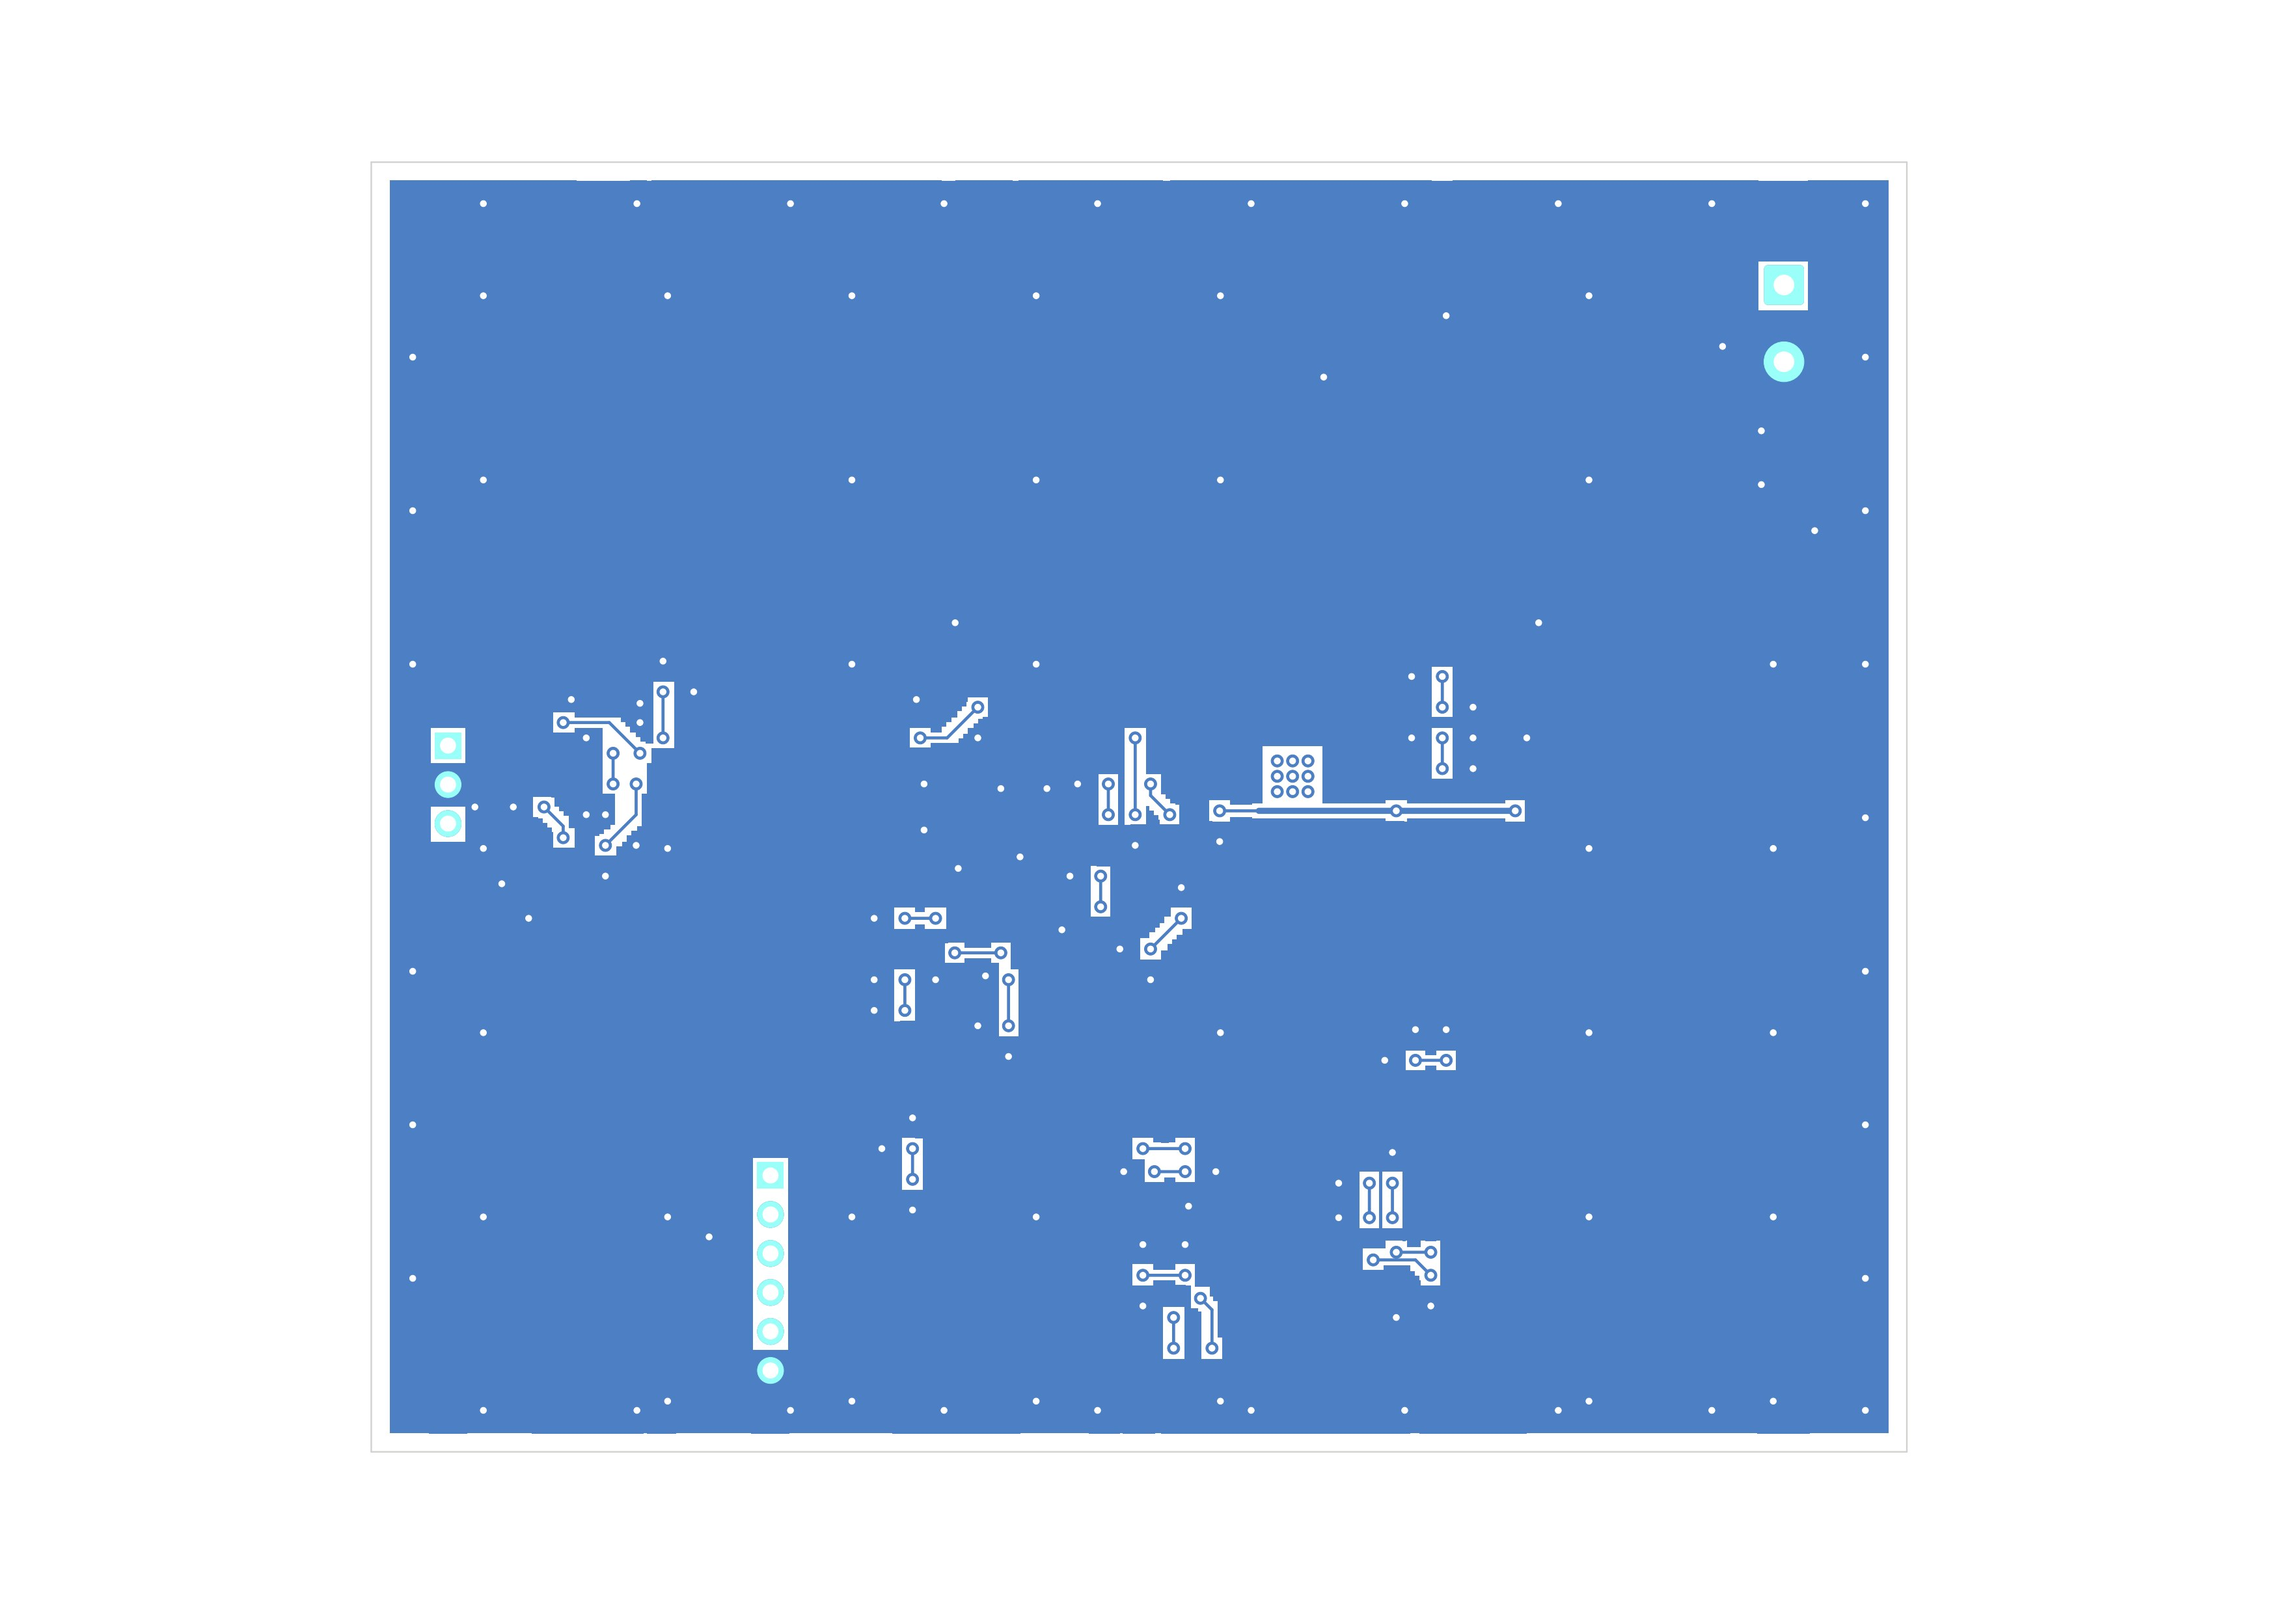
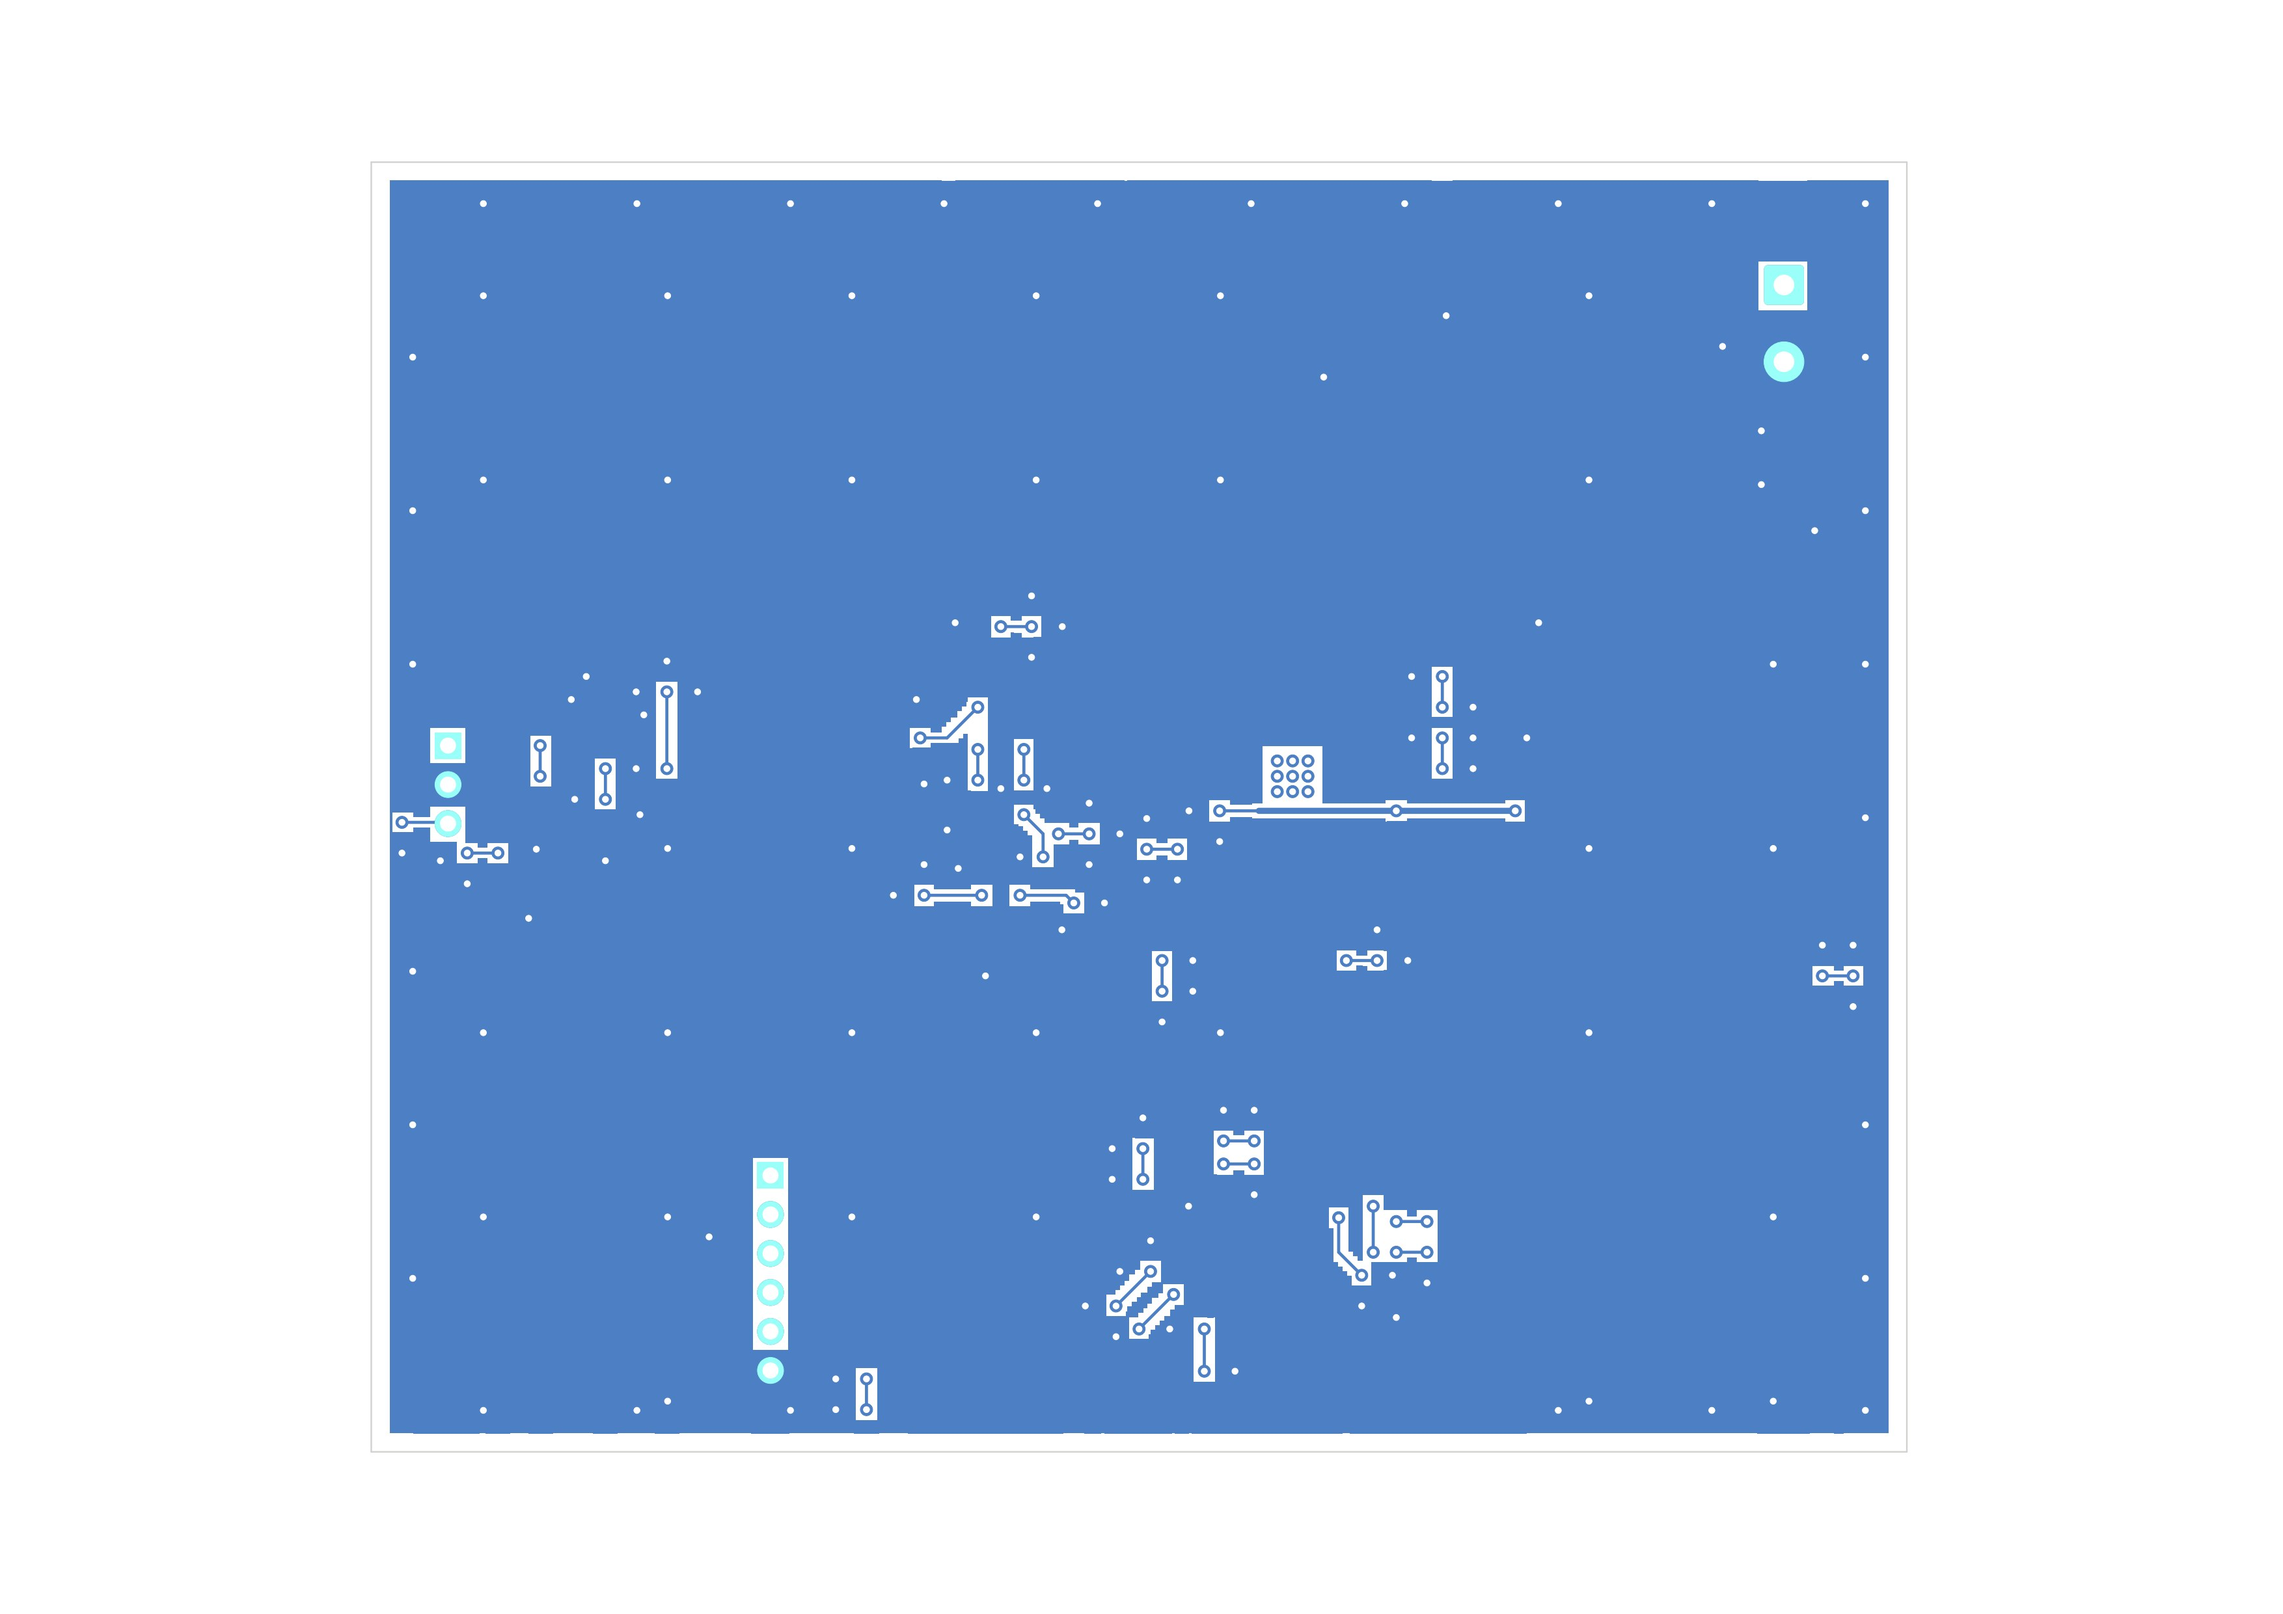
Take the better of two cold-cache draws, and write round fourteen down
The container reclaims cost the FPGA board its learned route twice; of
the two from-scratch draws the first came back with one touring net and
the second with four, a stub and an off-grid corner, so the first is the
board. Zero DRC errors, zero hairpins, zero crossings on all five;
REVIEW.md section 19 records the round, the corrected reading of the
motor circles included.

Claude-Session: https://claude.ai/code/session_01DUj7Ltu92tWg159mCSacwY

diff --git a/examples/REVIEW.md b/examples/REVIEW.md
@@ -867,3 +867,50 @@ the 3.3 V rail - the twenty-link net that wants the same stated spine the
 clean across all five: zero crossings, zero rides, zero mid-run width
 steps, every pour piece over 8 mm² holding its own via, and the planes'
 outer shell reaching to 1.2 mm of every edge.
+
+## 19. The reviewer's pass, round fourteen: the fold, correctly this time
+
+The reviewer accepted the round and re-reviewed - with one correction.
+Round thirteen read the two circles on the motor board as pour wedges and
+pruned the pour; the circles were about the *bends*. Each circled corner
+is a legal 45 on its own; the pair of them - a 90 and a 45 with a tenth
+of a millimetre between - turns the run 135 degrees from its direction of
+travel, folded into half a millimetre. The angle rule is structurally
+blind to it: it measures one corner at a time, and every corner passes.
+
+### What went into the tool
+
+| built in | kind | what it does |
+| --- | --- | --- |
+| `route.hairpin` | rule | two same-direction corners within 1.2 mm of track whose signed turns sum past 100 degrees. Signed, so a staircase's alternating 45s cancel; arms shorter than 0.8 mm are a clearance artefact skirting a via, not a legible fold; a fold whose middle sits inside its own pad is the escape fan's micro-hook and stays. Six findings across KiCad's 18 demo projects - info, promoted only under `ai-generated` |
+| `_spread_hairpins` | pass | the generator's answer: the fold's middle leg stretches to 1.2 mm and the exit re-doglegs onto the far end of the outgoing straight. Aimed at the first vertex it folded straight back - the exit carries a redundant collinear point half a millimetre out, and the first attempt found it the hard way |
+| stitch vias stay inside the pour | guard | a candidate offset from a track end can land past the pour and onto the outline itself - two did, one dead on the board edge - where it is an edge violation and an orphan at once. `check_board` cannot see either; KiCad's DRC caught both, and the candidate filter now owns the bound |
+
+The motor board's two circled folds are now wraps: the same 135 degrees,
+drawn as spread 45s over two millimetres, which is how a person turns
+back. All five boards measure zero hairpins, zero crossings, zero doubled
+runs, zero mid-run width steps.
+
+### Where the FPGA board stands
+
+Twice this round the FPGA board was re-routed from a cold cache, and the
+two draws tell the story of what the rip-up loop's learned order was
+worth: the first came back with one bad net (the line-out pair touring at
+4.3x, `route.detour` and `route.wander` both naming it) on top of the
+standing SPI-over-cuts debt; the second came back worse - four tours, a
+stub and an off-grid corner - and was discarded for the first. The
+committed board is that better draw: zero DRC errors, zero hairpins, zero
+crossings, and four blocking findings - three corners, one line-out tour,
+five SPI/CRESET nets at 11-19 mm over plane cuts, and the tour again as
+`route.wander`. The 3.3 V spine and a floorplan that gives the line-out
+pair a corridor stay the named next work.
+
+The reversal of fortune is worth writing down: the environment reclaimed
+the container twice during this round, and each reclaim rolled the
+working tree - and the route cache with it - back a day. The code came
+back from the remote in minutes each time; the FPGA board's *route* did
+not, because a route is an afternoon of rip-up learning keyed to code
+that no longer hashes the same. The five commits of history survived
+because every one of them was pushed the moment it existed. The lesson is
+already this repository's working agreement; the round is what enforcing
+it looks like.

diff --git a/examples/README.md b/examples/README.md
@@ -44,11 +44,11 @@ is [REVIEW.md](REVIEW.md).
 
 Four of the five `reviewed/` projects **pass** their own gate. The FPGA board
 does not: fencing foreign copper out from under the flash and the DAC still
-costs it four SPI nets over cuts in the back plane (11-20 mm each), three
-detours on the 3.3 V rail and two corners. The 1.2 V core rail rides a stated
-spine under the FPGA's own die and no longer wanders; the 3.3 V rail — twenty
-links across four packages — is the spine that remains to be stated, and
-[REVIEW.md](REVIEW.md) names it as the next round's work. What remains is
+costs it five nets over cuts in the back plane (11-19 mm each), one tour on
+the line-out pair and three corners. The 1.2 V core rail rides a stated
+spine under the FPGA's own die and no longer wanders; the 3.3 V rail and a
+corridor for the line-out pair are the floorplan work that remains, and
+[REVIEW.md](REVIEW.md) names both as the next round's. What remains is
 floorplan on a 48-pin QFN with two layers, stated by the gate rather than
 waived, because a waiver would say the measurement was wrong and it is not.
 Every `as-generated/` fails.
@@ -341,8 +341,8 @@ a 1.2 V regulator for the core — on two layers.
 
 | | verdict | schematic (e/w/i) | board (e/w/i) |
 | --- | --- | --- | --- |
-| `reviewed` | **FAIL**, 3 blocking, 2 waived | 0 / 2 / 0 | 0 / 9 / 8 |
-| `as-generated` | **FAIL**, 30 blocking | — | — |
+| `reviewed` | **FAIL**, 4 blocking, 2 waived | 0 / 2 / 0 | 0 / 10 / 8 |
+| `as-generated` | **FAIL**, 34 blocking | — | — |
 
 Under KiCad's own checks `reviewed` is clean: no DRC errors, nothing
 unconnected, no schematic-parity findings. On every *style* measure it now
@@ -356,9 +356,10 @@ back-side stroke under the FPGA's own die, tapped by every branch at the
 nearest point — the tee described in [REVIEW.md](REVIEW.md) is what makes
 tapping possible. The rails no longer wander, and the board is 15% lighter
 in copper for it. The fence still has a price the gate states plainly:
-four SPI nets over cuts in the back plane (11-20 mm each), three detours on
-the 3.3 V rail (`route.wander`, 2.4-3.0x - the twenty-link net that still
-wants a stated spine of its own), and two corners (`route.acute_angle`). The engineering pass there found and
+five SPI/CRESET nets over cuts in the back plane (11-19 mm each), the
+line-out pair touring at 4.3x (`route.detour` and `route.wander` both name
+it - the corridor it wants is floorplan), and three corners
+(`route.acute_angle`). The engineering pass there found and
 fixed
 four real electrical faults here: the PCM5102A's charge pump was miswired
 (flying cap to ground instead of CAPP-CAPM — the DAC had no negative rail),
